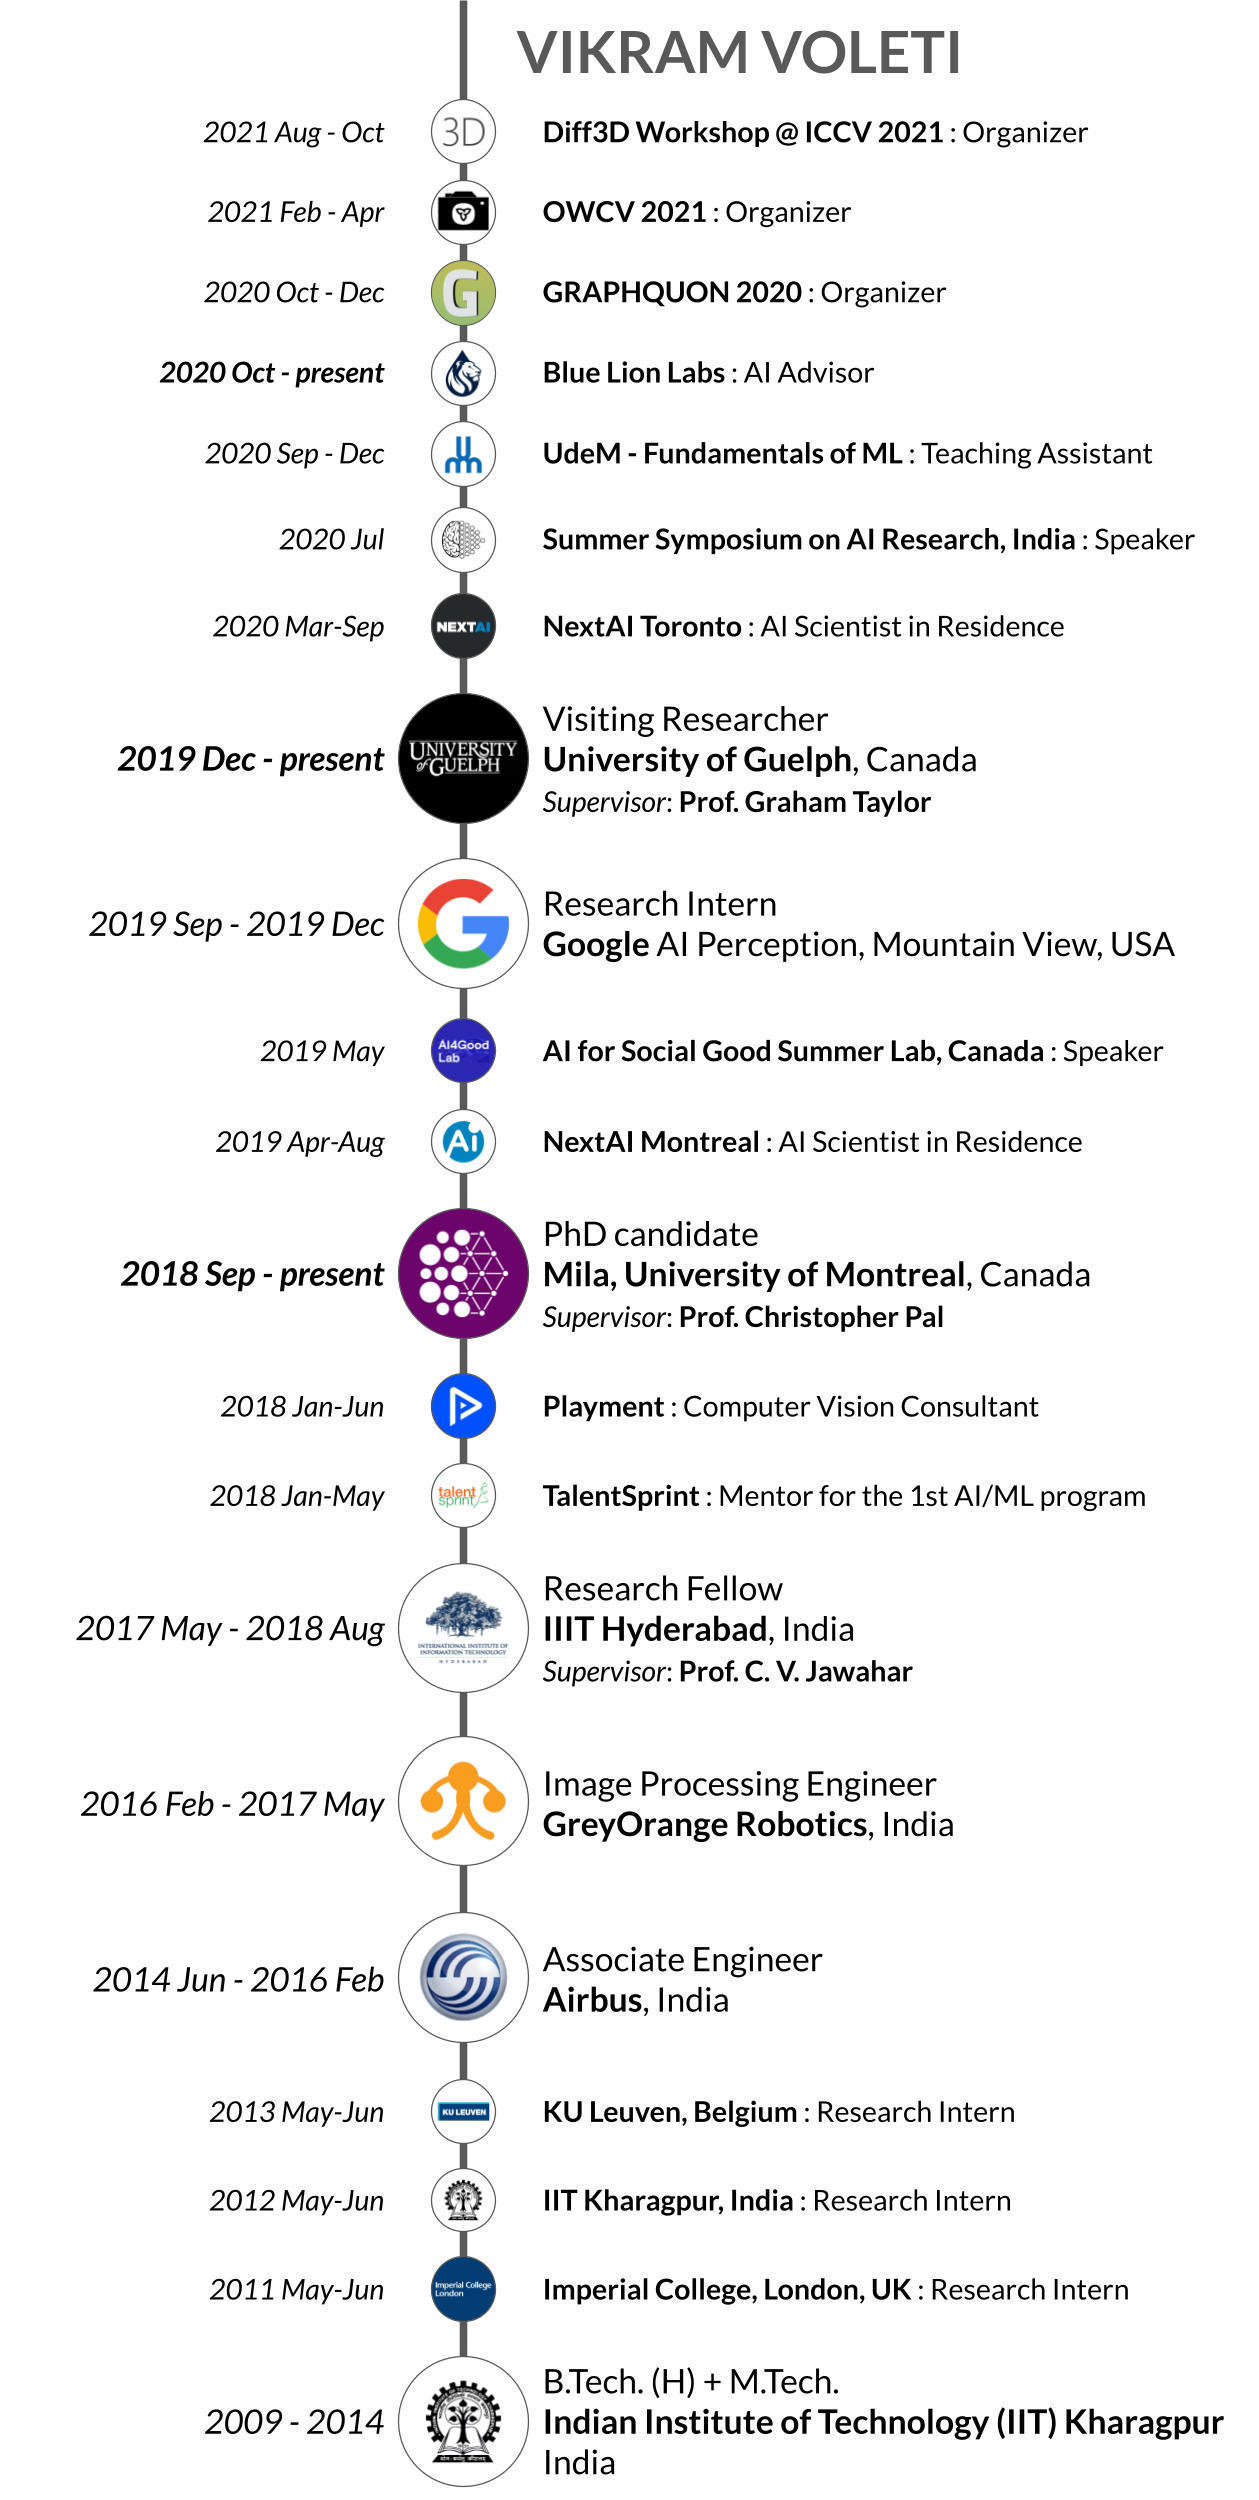
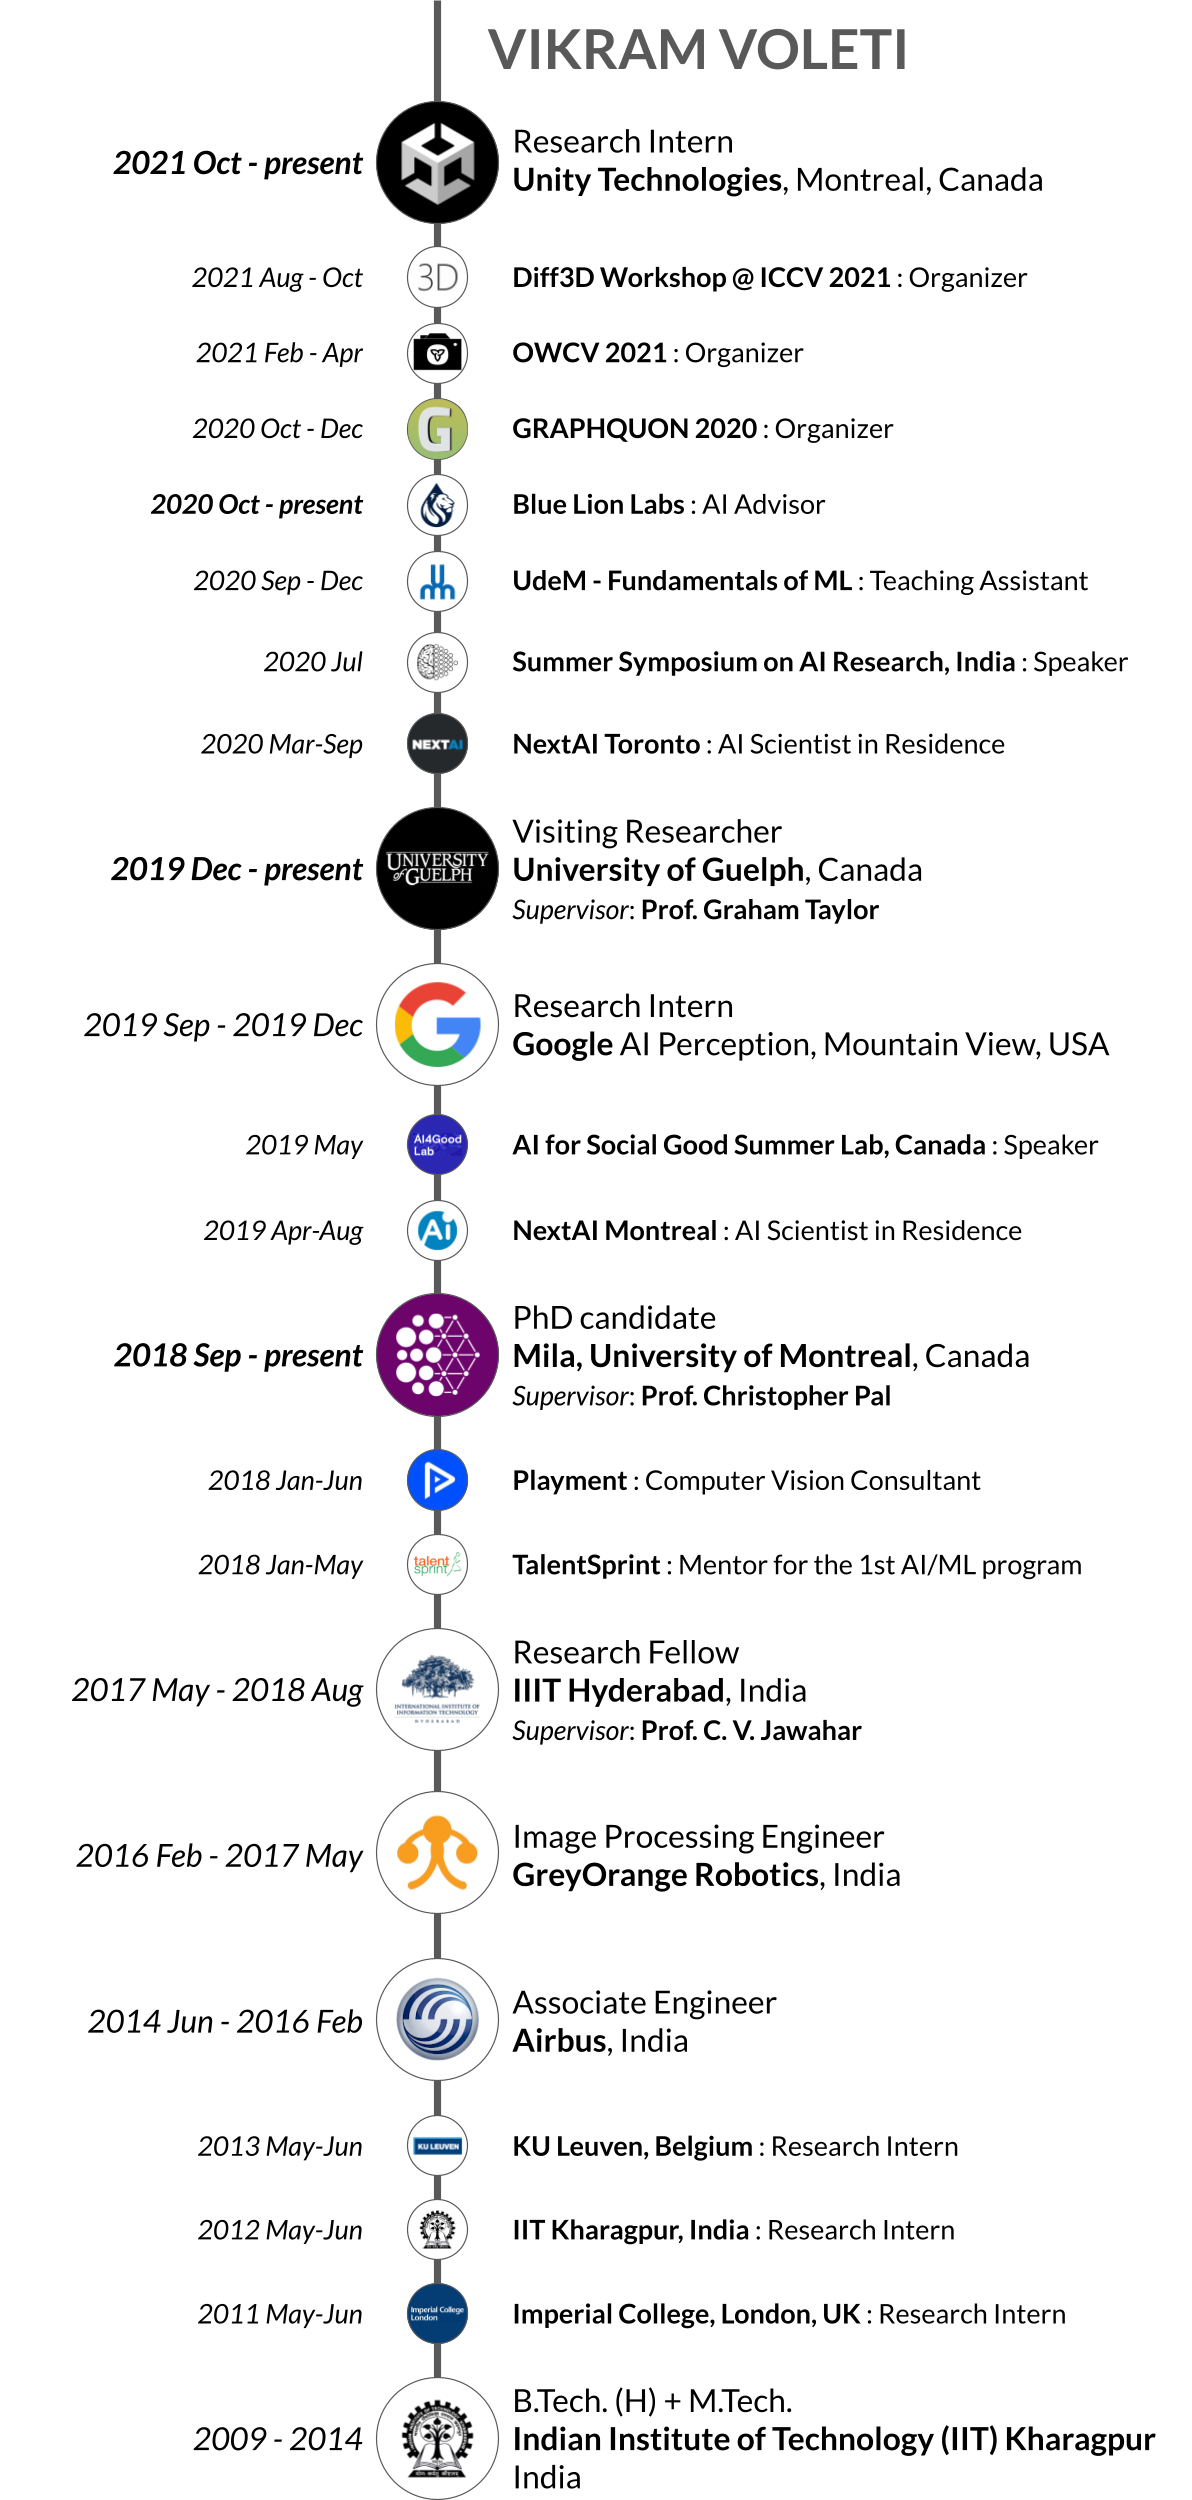
Adds UNITY stuff
Former-commit-id: c3a94a8a6f89d4ddf8f765892da998619476b375

diff --git a/_pages/experience.md b/_pages/experience.md
@@ -9,16 +9,30 @@ permalink: /experience
 
 # CURRENT
 
+
 <div class="experience-box" markdown="1">
-[<img class="experience-picture" src="{{site.url}}{{site.baseurl}}/images/experience/mila_purple.png">](https://mila.quebec/en/){:target="_blank"}
+[<img class="experience-picture" src="{{site.url}}{{site.baseurl}}/images/experience/unity.png">](https://unity.com/labs){:target="_blank"}
 
-_September 2018 --- present_
+_October 2021 --- present_
 
-### [Mila](https://mila.quebec/en/){:target="_blank"}, [University of Montreal](https://diro.umontreal.ca/){:target="_blank"} - PhD candidate
+### [Unity Technologies](https://unity.com/labs){:target="_blank"} - MITACS Research Intern
+**Montreal, Canada**
 
-**PhD, Computer Science; Supervisor: [Prof. Christopher Pal](https://mila.quebec/en/person/pal-christopher/){:target="_blank"}**
+I work with the DeepPose team at Unity Labs(https://unity.com/labs){:target="_blank"}'s on 3D pose estimation from video.
 
-My research interests are broadly in generative models for images, video, 3D. I work on image, video and 3D generation using latent dynamics, and score-based diffusion models.
+</div>
+
+
+<div class="experience-box" markdown="1">
+[<img class="experience-picture" src="{{site.url}}{{site.baseurl}}/images/experience/bluelion.jpeg">](https://bluelionlabs.com/){:target="_blank"}
+
+_October 2020 --- present_
+
+### [Blue Lion Labs](https://bluelionlabs.com/){:target="_blank"} - AI Advisor
+**Waterloo, Canada**
+
+I advise [Blue Lion Labs](https://bluelionlabs.com/){:target="_blank"}, an early-stage startup that provides technology to automatically monitor different organisms in water using machine learning.
+
 </div>
 
 
@@ -36,16 +50,17 @@ I work in [Prof. Graham Taylor](https://www.gwtaylor.ca/){:target="_blank"}'s la
 
 
 <div class="experience-box" markdown="1">
-[<img class="experience-picture" src="{{site.url}}{{site.baseurl}}/images/experience/bluelion.jpeg">](https://bluelionlabs.com/){:target="_blank"}
+[<img class="experience-picture" src="{{site.url}}{{site.baseurl}}/images/experience/mila_purple.png">](https://mila.quebec/en/){:target="_blank"}
 
-_October 2020 --- present_
+_September 2018 --- present_
 
-### [Blue Lion Labs](https://bluelionlabs.com/){:target="_blank"} - AI Advisor
-**Waterloo, Canada**
+### [Mila](https://mila.quebec/en/){:target="_blank"}, [University of Montreal](https://diro.umontreal.ca/){:target="_blank"} - PhD candidate
 
-I advise [Blue Lion Labs](https://bluelionlabs.com/){:target="_blank"}, an early-stage startup that provides technology to automatically monitor different organisms in water using machine learning.
+**PhD, Computer Science; Supervisor: [Prof. Christopher Pal](https://mila.quebec/en/person/pal-christopher/){:target="_blank"}**
 
+My research interests are broadly in generative models for images, video, 3D. I work on image, video and 3D generation using latent dynamics, and score-based diffusion models.
 </div>
+
 
 # EDUCATION
 
@@ -72,6 +87,18 @@ _2009 --- 2014_
 
 
 # EXPERIENCE
+
+<div class="experience-box" markdown="1">
+[<img class="experience-picture" src="{{site.url}}{{site.baseurl}}/images/experience/unity.png">](https://unity.com/labs){:target="_blank"}
+
+_August 2021 --- October 2021_
+
+### [Unity Technologies](https://unity.com/labs){:target="_blank"} - MITACS Research Intern
+**Montreal, Canada**
+
+I am a MITACS Research Intern with the DeepPose team at Unity Labs, I work on 3D pose estimation from videos.
+</div>
+
 
 <div class="experience-box" markdown="1">
 [<img class="experience-picture" src="{{site.url}}{{site.baseurl}}/images/experience/diff3d.png">](http://montrealrobotics.ca/diff3d/){:target="_blank"}

diff --git a/_pages/index.md b/_pages/index.md
@@ -11,9 +11,9 @@ permalink: /
 
 <img class="profile-picture" src="{{site.url}}{{site.baseurl}}/images/profile-picture/profile_picture.jpg" />
 
-I am a PhD student at [Mila](https://mila.quebec/en/){:target="_blank"}, [University of Montreal](https://diro.umontreal.ca/){:target="_blank"}, I am supervised by [Prof. Christopher Pal](https://mila.quebec/en/person/pal-christopher/){:target="_blank"}. I am currently a Visiting Researcher with [Prof. Graham Taylor](https://www.gwtaylor.ca/){:target="_blank"} at the [University of Guelph](https://www.uoguelph.ca/engineering/){:target="_blank"}. I also work as an AI Advisor to [Blue Lion Labs](https://bluelionlabs.com/){:target="_blank"}.
+I am a PhD student at [Mila](https://mila.quebec/en/){:target="_blank"}, [University of Montreal](https://diro.umontreal.ca/){:target="_blank"}, I am supervised by [Prof. Christopher Pal](https://mila.quebec/en/person/pal-christopher/){:target="_blank"}. My main research interests are in computer vision and deep learning, I have primarily worked on generative models for image, video and 3D. My projects span diffusion probabilistic / score-based models; multi-resolution image generation; self-supervised video predition using dynamical modelling.
 
-My main research interests are in computer vision and deep learning. My projects span diffusion probabilistic / score-based models, multi-resolution image generation; self-supervised video predition using dynamical modelling; neural rendering; multi-modal GANs. 
+Currently, I am a MITACS Research Intern at [Unity Labs](https://unity.com/labs), I work on 3D pose estimation from video. I am also a Visiting Researcher with [Prof. Graham Taylor](https://www.gwtaylor.ca/){:target="_blank"} at the [University of Guelph](https://www.uoguelph.ca/engineering/){:target="_blank"}. I also work as an AI Advisor to [Blue Lion Labs](https://bluelionlabs.com/){:target="_blank"}. 
 
 In Fall 2019, I was a Research Intern at [Google](https://ai.google/research/teams/perception/){:target="_blank"}, Mountain View in the [Google AI Perception](https://ai.google/research/teams/perception/){:target="_blank"} team. In 2019 and 2020, I was an AI Scientist in Residence at [NextAI](https://www.nextcanada.com/next-ai/){:target="_blank"}.
 
